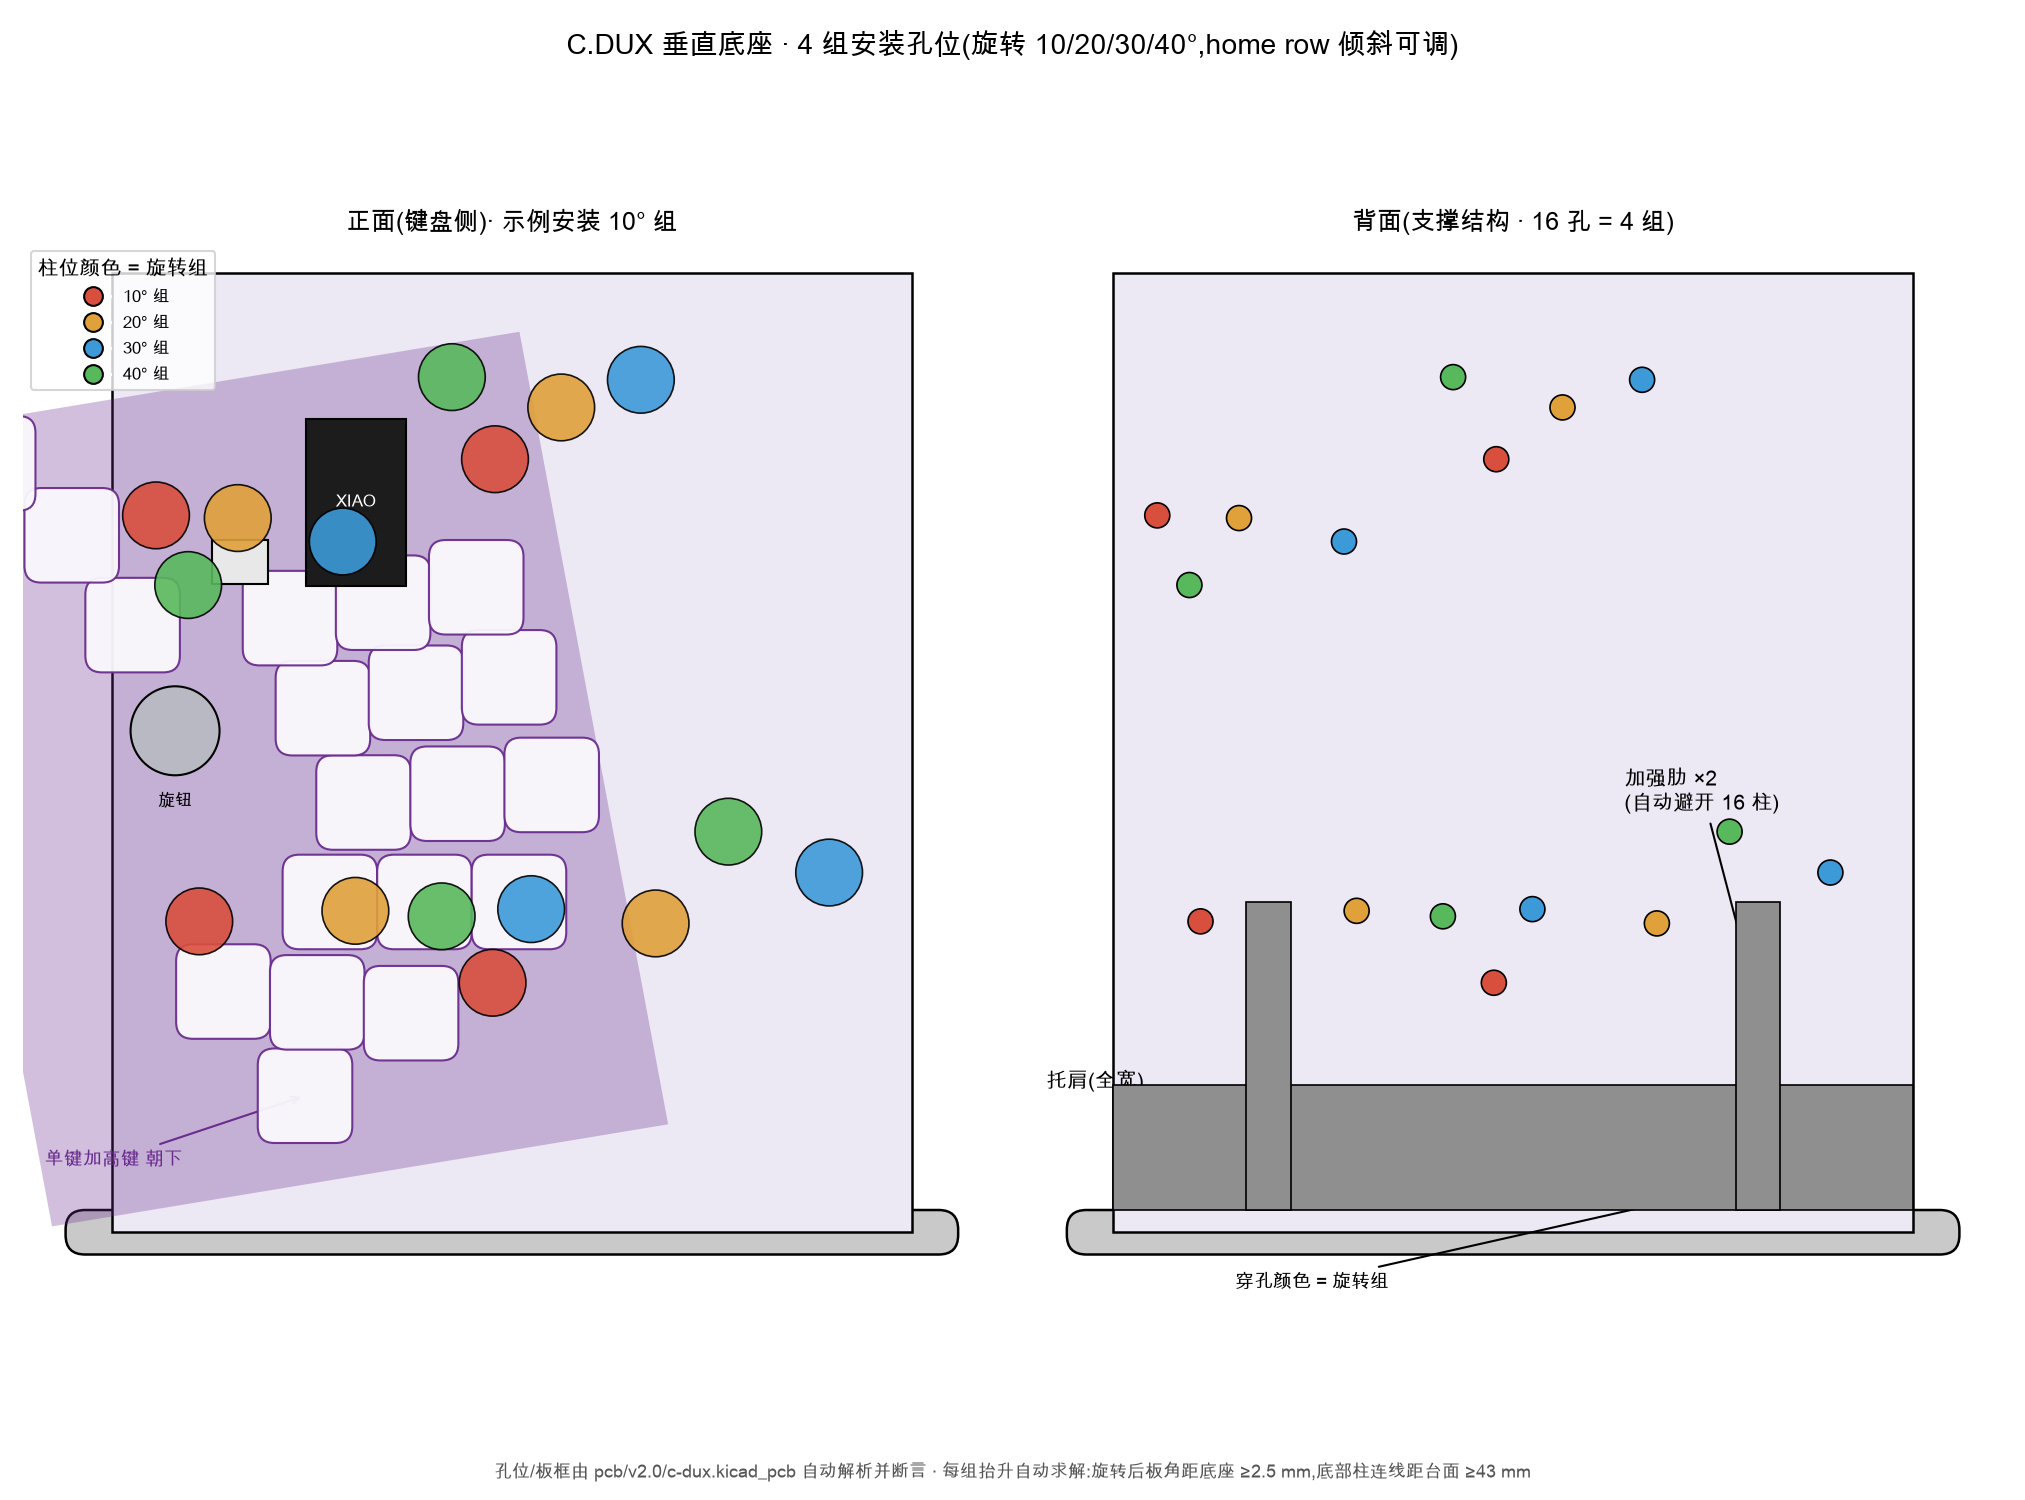
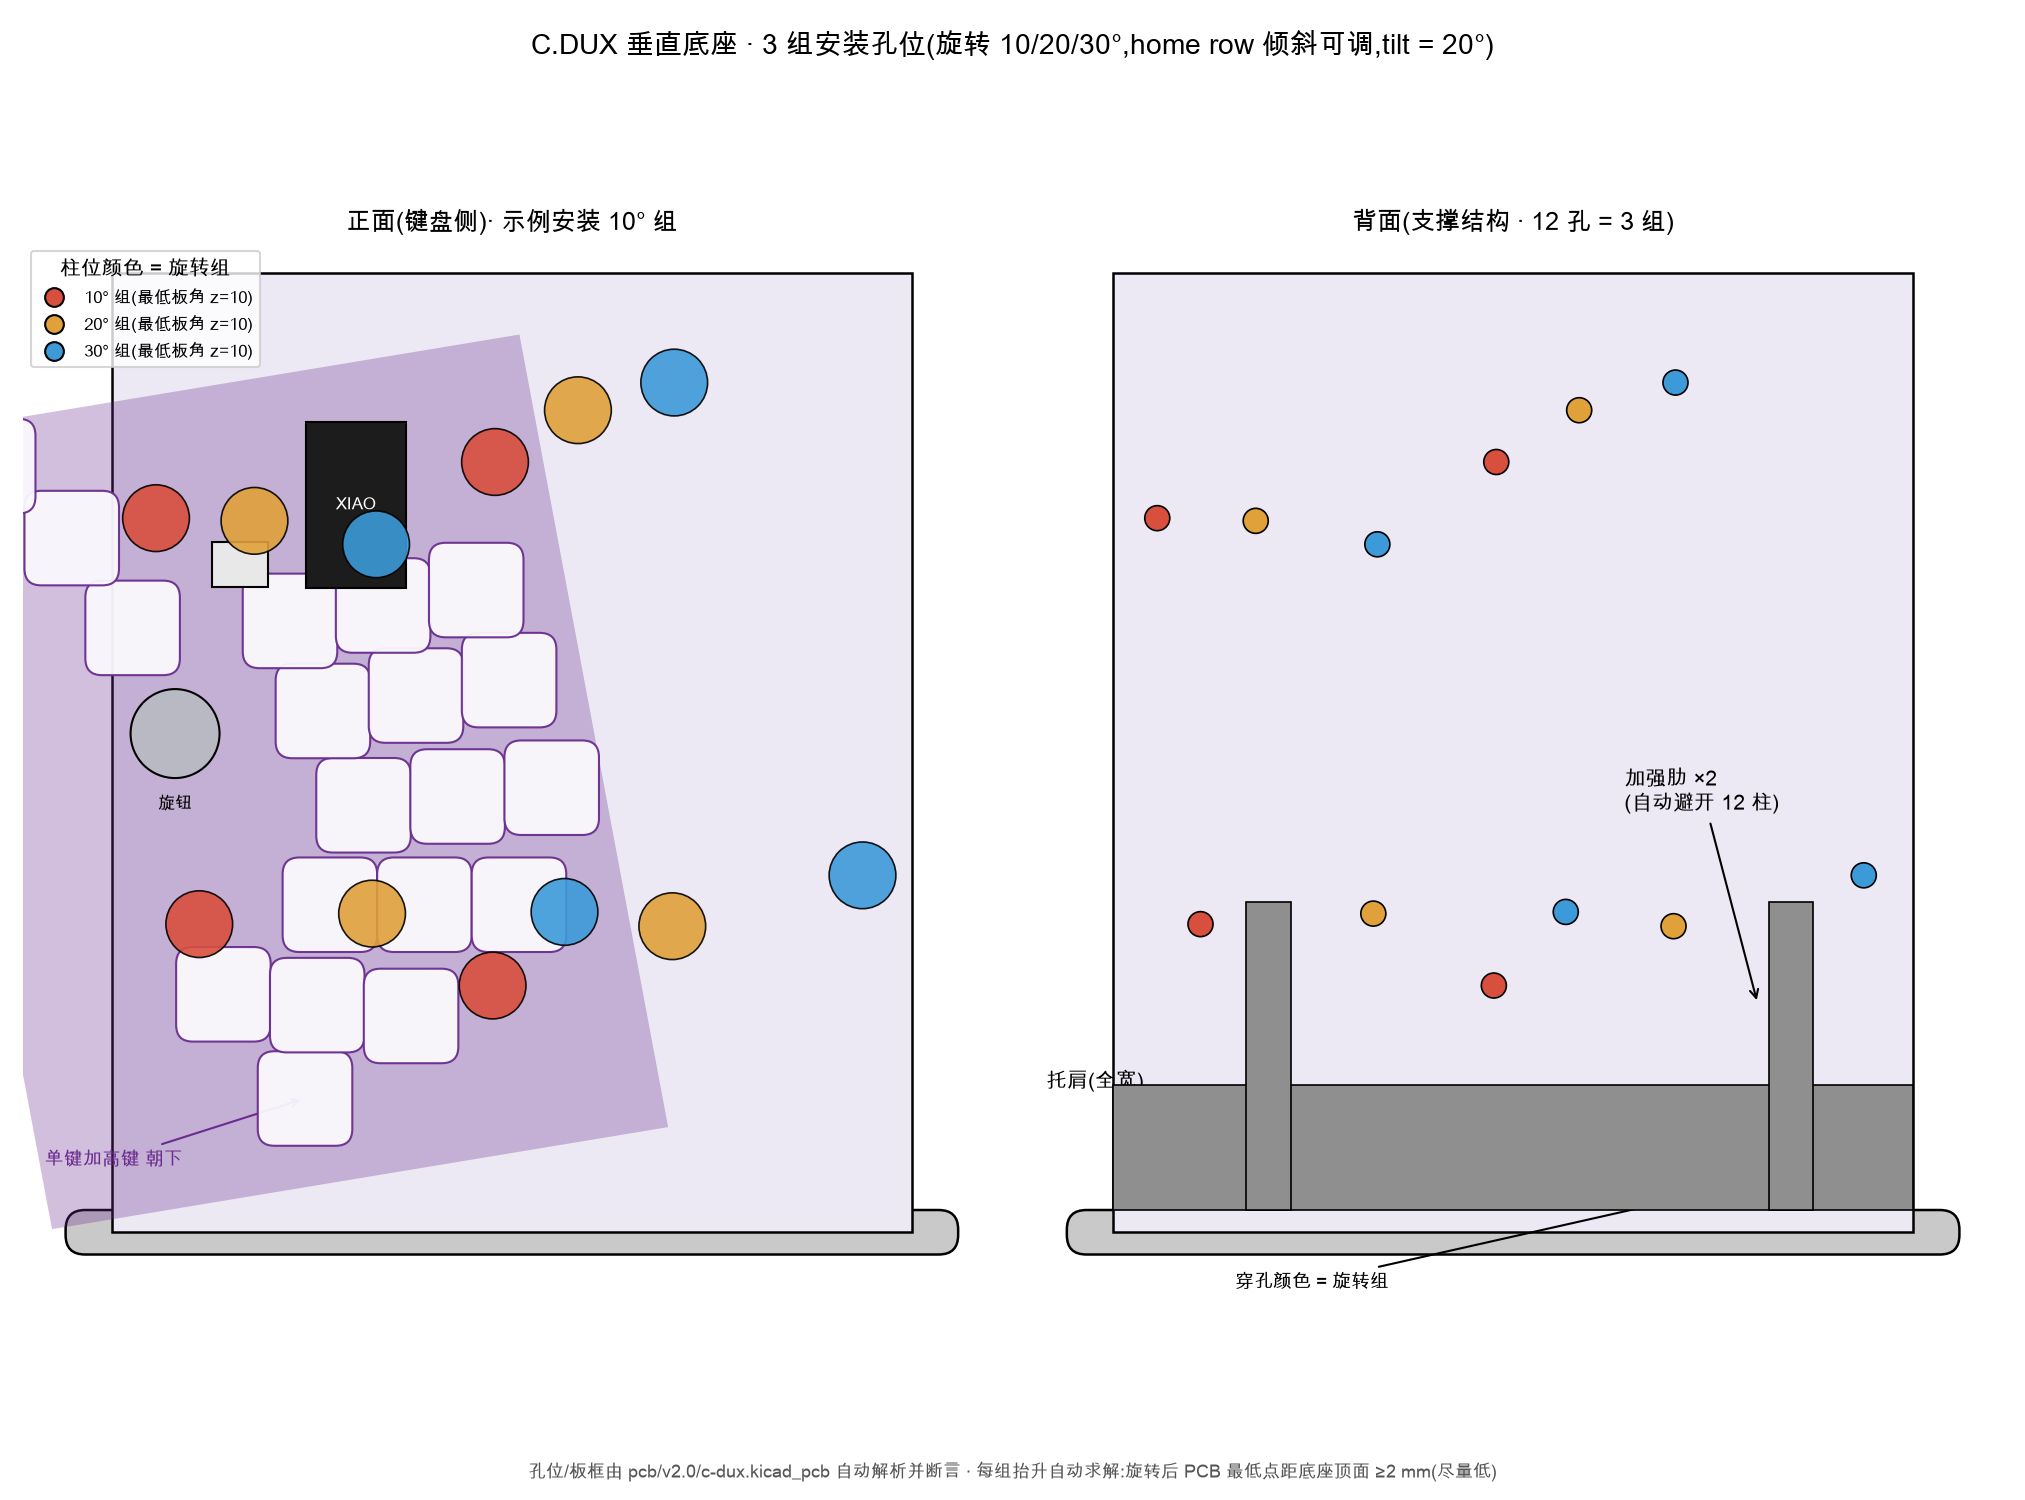
case/build123d: 3 rotation sets, height rule = corner clearance + 2 mm.
The 43 mm bottom-line rule only applied to a base-parallel, unrotated
mounting. For rotated sets the real requirement is that the PCB's lowest
point clears the base top and the desk, and the design goal is to sit as
low as that allows:

- drop the LINE_H_DESK constraint; each set's lift is now the minimum
  that keeps the rotated board's lowest corner >= base top + 2 mm, so
  every set mounts with its lowest corner exactly 10 mm above the desk
- 3 rotation sets (10/20/30 deg), tilt fixed at 20 deg (--tilt removed)
- also fixes a centroid double-count in the lift/corner-z math that had
  been inflating the sets by ~75 mm
- logo emboss removed earlier in 33b2839

diff --git a/case/build123d/stand.py b/case/build123d/stand.py
@@ -41,8 +41,8 @@ The sets therefore staircase slightly upward with increasing angle.
 
 Usage:
     uv sync                                  # once; creates .venv + uv.lock
-    uv run stand.py                          # left half, tilt=20, full
-    uv run stand.py --side right --tilt 0
+    uv run stand.py                          # left half, full (tilt fixed 20°)
+    uv run stand.py --side right
     uv run stand.py --part fit               # flat validation plate + posts
     uv run stand.py --set-angles 10,20,30    # custom rotation sets
 """
@@ -134,13 +134,16 @@ EMBED = 4.0  # how deep the plate sinks into the base top (deeper = stronger jun
 # tilt the home row. Angles are CCW in the front view — negate the list to
 # mirror the tilt direction. See the module docstring for why 5-deg steps
 # are impossible.
-SET_ANGLES = [10, 20, 30, 40]  # deg, CCW in front view (negate to mirror tilt)
+TILT = 20.0  # stand recline from vertical, deg — fixed by design
+SET_ANGLES = [10, 20, 30]  # deg, CCW in front view (negate to mirror tilt)
 MIN_POST_CENTER = 13.0  # post diameter 12 + 1 mm printing clearance
 SHIFT_GRID = 3.0  # lateral shift candidates per set, packed by brute force
 SHIFT_SPAN = 45.0  # max |lateral shift| of a set centroid
 PLATE_HALF_BOUND = 72.0  # max post |x| so the plate stays on the base
-BASE_TOP_MARGIN = 2.5  # rotated board corner vs base top
-LINE_H_DESK = 43.0  # min height of a set's bottom post line above the desk
+BASE_TOP_MARGIN = 2.0  # rotated board's lowest point vs base top — the ONLY
+#                        height constraint: clear the base, sit as low as
+#                        possible (the old 43 mm bottom-line rule applied only
+#                        to a base-parallel, unrotated mounting)
 RIB_TARGET = 5  # ribs wanted (auto-placed; may be fewer if posts crowd the plate)
 
 EPS = 0.01
@@ -220,13 +223,12 @@ class Stand:
         pcb_w: float,
         pcb_h: float,
         holes: list[tuple[float, float]],
-        tilt: float,
         post_h: float,
         attach: str,
         set_angles: list[float],
     ):
         self.pcb_w, self.pcb_h, self.holes = pcb_w, pcb_h, holes
-        self.tilt = tilt
+        self.tilt = TILT
         self.post_h = post_h
         self.attach = attach
 
@@ -235,7 +237,7 @@ class Stand:
         self.bx = pcb_w + 2 * base_side
         self.y0 = -base_front
         self.y1 = base_rear
-        self.ct, self.st = math.cos(math.radians(tilt)), math.sin(math.radians(tilt))
+        self.ct, self.st = math.cos(math.radians(TILT)), math.sin(math.radians(TILT))
 
         self.sets, self.set_meta = self._solve_sets(set_angles)
         self.all_posts = [(x, y) for _, pts in self.sets for x, y in pts]
@@ -282,12 +284,8 @@ class Stand:
                  cv + dx * math.sin(r) + dy * math.cos(r))
                 for dx, dy in rel
             ]
-            vmin = min(cv + dx * math.sin(r) + dy * math.cos(r) for dx, dy in corners)
-            lift = max(0.0, v_floor - vmin)
-            low = sorted(v for _, v in pts)[:2]
-            line_z = min(self.origin_z + (y + bottom_ext) * self.ct + 11 * self.st for y in low)
-            if line_z < LINE_H_DESK:
-                lift += (LINE_H_DESK - line_z) / self.ct
+            vmin = min(dx * math.sin(r) + dy * math.cos(r) for dx, dy in corners)
+            lift = max(0.0, v_floor - (cv + vmin))
             lifted.append((ang, lift, [(u, v + lift) for u, v in pts]))
 
         cands = [
@@ -321,8 +319,11 @@ class Stand:
         out = []
         meta = []
         for (ang, lift, pts), s in zip(lifted, best):
+            r = math.radians(ang)
+            vmin = min(cv + dx * math.sin(r) + dy * math.cos(r) for dx, dy in corners)
+            corner_z = self.origin_z + (bottom_ext + vmin + lift) * self.ct + 11 * self.st
             out.append((ang, [(u + s - self.pcb_w / 2, v + bottom_ext) for u, v in pts]))
-            meta.append((ang, s, lift))
+            meta.append((ang, s, lift, round(corner_z, 2)))
         return out, meta
 
     # -- rib / haunch auto-placement ------------------------------------------
@@ -528,12 +529,6 @@ def main() -> None:
         help="'fit' = flat validation plate + posts only",
     )
     ap.add_argument(
-        '--tilt',
-        type=float,
-        default=20,
-        help='recline from vertical, degrees (0 = upright)',
-    )
-    ap.add_argument(
         '--post-h', type=float, default=5, help='post height = PCB-to-plate gap'
     )
     ap.add_argument(
@@ -567,21 +562,15 @@ def main() -> None:
         sys.exit('error: --set-angles needs at least one angle')
 
     pcb_w, pcb_h, holes = parse_pcb(args.pcb)
-    stand = Stand(pcb_w, pcb_h, holes, args.tilt, args.post_h, args.attach, set_angles)
+    stand = Stand(pcb_w, pcb_h, holes, args.post_h, args.attach, set_angles)
 
-    for ang, pts in stand.sets:
-        ys = sorted(y for _, y in pts)
-        line_z = stand.origin_z + ys[1] * stand.ct + 11 * stand.st
+    for (ang, pts), (_, _, _, corner_z) in zip(stand.sets, stand.set_meta):
         print(f'set {ang:5.1f}°: posts x=[{min(x for x, _ in pts):7.2f}, '
-              f'{max(x for x, _ in pts):7.2f}]  bottom-line z={line_z:6.2f} mm')
-    print(f'ribs at x = {stand.rib_x}  | haunch_h = {stand.haunch_h:.1f} mm')
+              f'{max(x for x, _ in pts):7.2f}]  lowest PCB corner z={corner_z:6.2f} mm')
+    print(f'ribs at x = {[round(x, 1) for x in stand.rib_x]}  | haunch_h = {stand.haunch_h:.1f} mm')
 
     part = stand.build(args.part, args.side)
-    stem = (
-        f'stand_{args.side}_tilt{int(round(args.tilt))}_{args.part}'
-        if args.part == 'full'
-        else f'stand_{args.side}_fit'
-    )
+    stem = f'stand_{args.side}_{args.part}'
     summary(stem, part)
     if args.show:
         push_viewer(part, stem)
